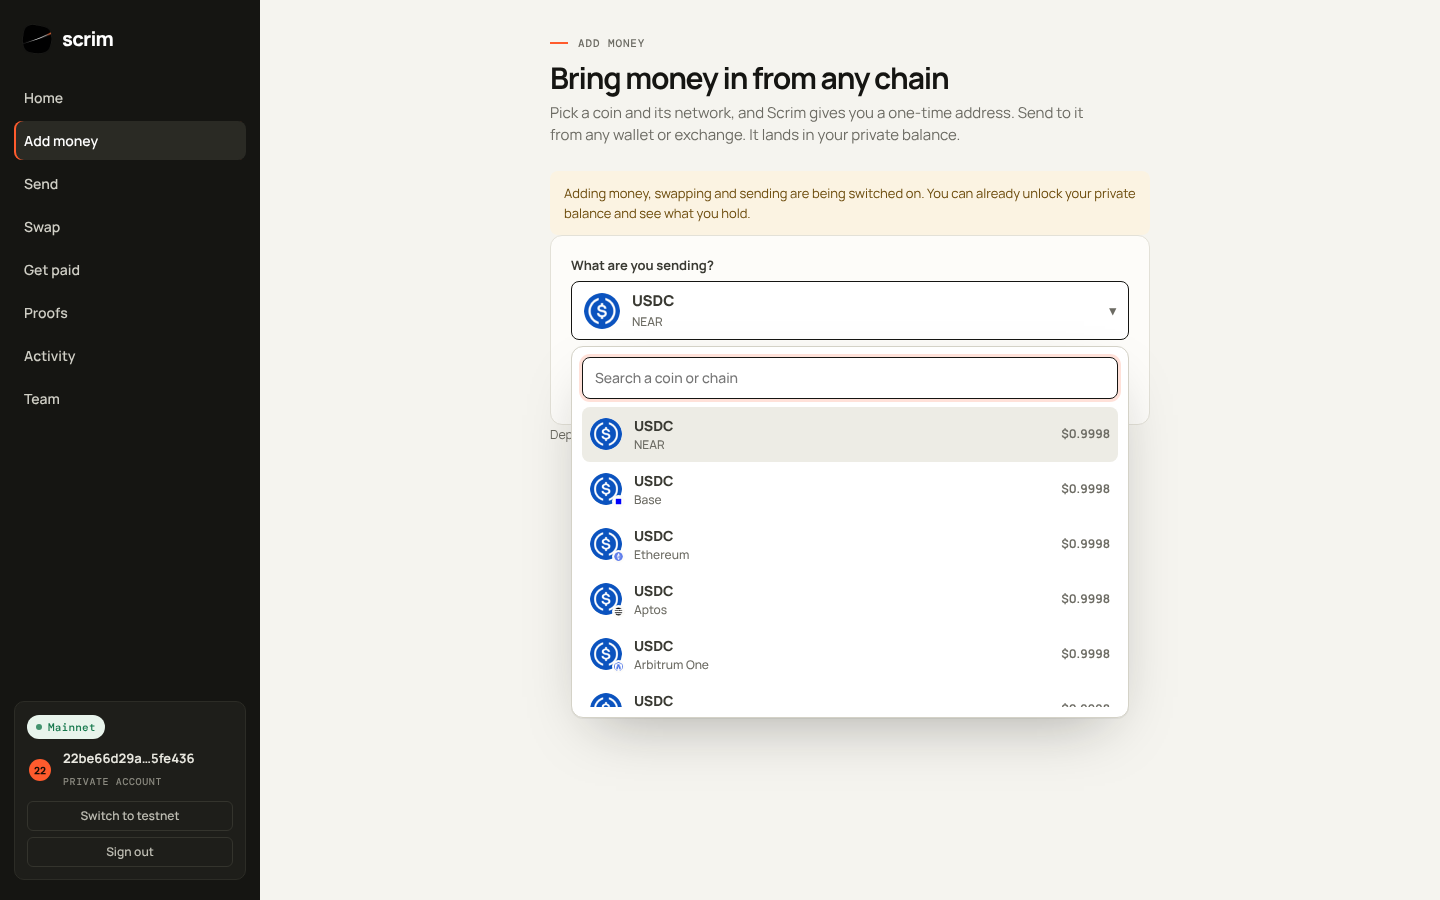
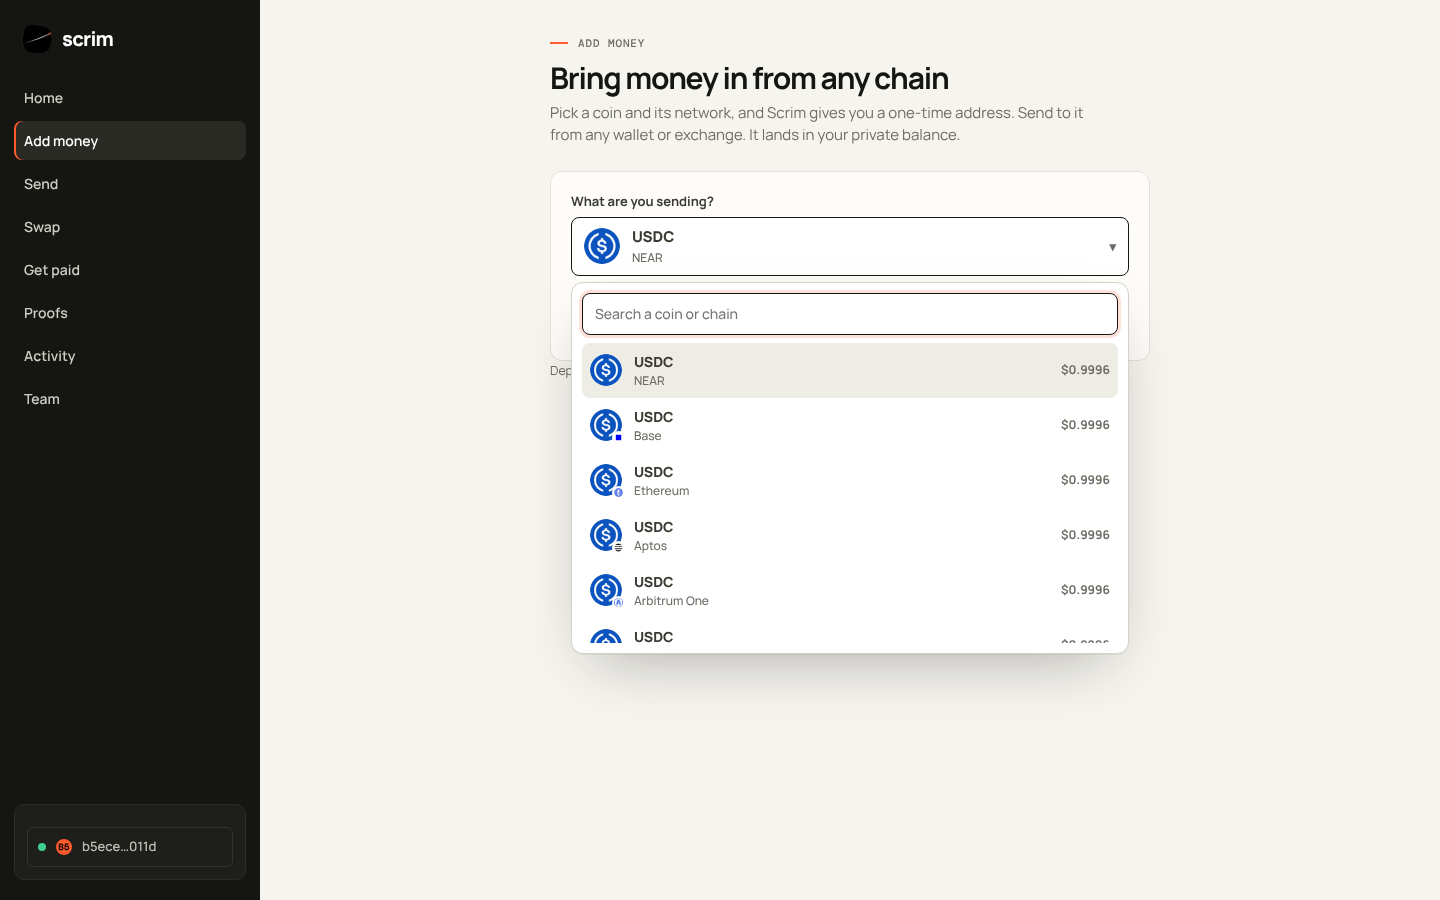
x402 on the landing page and in the agent guide; fresh README screenshots
Landing: an x402 scene and updated agent wording. Team: Paid APIs tab in Connect, allowed
recipients, readable site names. Fixes: testnet home buttons, no private badge on testnet teams,
plain status names, x402 scene class clash. README: new screenshots and feature table.

diff --git a/src/components/TreasuryView.tsx b/src/components/TreasuryView.tsx
@@ -73,7 +73,7 @@ export function TreasuryView({ treasuryId, accountId }: { treasuryId: string; ac
               {treasury.thresholdRequired} of {treasury.signers.length} approvals
             </span>
             <span className="pill plain">{treasury.unit.routeLabel}</span>
-            <span className="pill plain">Pays out privately</span>
+            {treasury.network === "mainnet" && <span className="pill plain">Pays out privately</span>}
             <span className="pill plain">{role === "owner" ? "You own this account" : "You are an approver"}</span>
           </div>
         </div>
@@ -562,7 +562,7 @@ function Agents({ agents, payments, role, unit, onCreate, onEdit, onToggle, onCo
       <div className="card empty">
         <span className="icon">⌁</span>
         <h3>No agents yet</h3>
-        <p>An agent is software that pays on your behalf. It gets its own key and spending limits: who it may pay, how much each time, and how much per day. It can ask to pay. It can never approve.</p>
+        <p>An agent is software that pays on your behalf. It gets its own key and spending limits: who it may pay, how much each time, and how much per day. It can ask to pay, and buy from paid APIs over x402. With a wallet of its own, it can pay by itself within those limits. It can never approve.</p>
         {role === "owner" && (
           <button className="btn btn-primary" onClick={onCreate}>
             Add your first agent
@@ -619,11 +619,11 @@ function Agents({ agents, payments, role, unit, onCreate, onEdit, onToggle, onCo
               </div>
             </div>
             <div>
-              <span className="section-label">Approved counterparties</span>
+              <span className="section-label">Allowed recipients</span>
               <div className="chips">
                 {agent.policy.counterparties.map((c) => (
                   <span key={c.address} className="chip" title={c.address}>
-                    {c.label} <code>{short(c.address, 4, 4)}</code>
+                    {c.label} <code>{c.address.startsWith("https://") ? new URL(c.address).host : short(c.address, 4, 4)}</code>
                   </span>
                 ))}
               </div>
@@ -742,8 +742,8 @@ function AgentDialog({ state, treasuryId, unit, onClose, onSaved }: { state: { m
           </select>
         </label>
         <div className="field">
-          Approved counterparties
-          <small>{unit.recipientLabel.replace(/^a /, "")}es this agent may pay{unit.symbol === "NEAR" ? "" : ", or https:// sellers it may buy from (x402)"}. Anything else is blocked automatically.</small>
+          Allowed recipients
+          <small>{plural(unit.recipientLabel.replace(/^an? /, ""))} this agent may pay{unit.symbol === "NEAR" ? "" : ", or https:// sellers it may buy from (x402)"}. Anything else is blocked automatically.</small>
           {counterparties.map((c, i) => (
             <div key={i} className="counterparty-row">
               <input className="input" value={c.label} onChange={(e) => setCounterparties((list) => list.map((x, j) => (j === i ? { ...x, label: e.target.value } : x)))} placeholder="Label" maxLength={60} />
@@ -818,8 +818,10 @@ function Secret({ value }: { value: string }) {
 }
 
 // How to plug an agent in: as a tool for an AI assistant (MCP), or from any code over HTTPS.
+const plural = (noun: string) => (/(s|x|ch|sh)$/.test(noun) ? `${noun}es` : `${noun}s`);
+
 function ConnectGuide({ apiKey }: { apiKey: string }) {
-  const [how, setHow] = useState<"ai" | "code">("ai");
+  const [how, setHow] = useState<"ai" | "code" | "x402">("ai");
   const origin = typeof window === "undefined" ? "" : window.location.origin;
   const mcp = JSON.stringify({ mcpServers: { scrim: { type: "http", url: `${origin}/api/mcp`, headers: { Authorization: `Bearer ${apiKey}` } } } }, null, 2);
   const curl = `curl -X POST ${origin}/api/v1/agent/payments \\
@@ -827,21 +829,32 @@ function ConnectGuide({ apiKey }: { apiKey: string }) {
   -H "Idempotency-Key: <unique-id>" \\
   -H "Content-Type: application/json" \\
   -d '{"recipient":"<recipient>","amount":"<amount>","memo":"<what it is for>"}'`;
+  const buy = `curl -X POST ${origin}/api/v1/agent/x402 \\
+  -H "Authorization: Bearer ${apiKey}" \\
+  -H "Idempotency-Key: <unique-id>" \\
+  -H "Content-Type: application/json" \\
+  -d '{"url":"https://<paid-api>/<path>"}'`;
   return (
     <div className="connect-guide">
       <div className="seg" role="tablist">
         <button role="tab" aria-selected={how === "ai"} onClick={() => setHow("ai")}>AI assistant</button>
         <button role="tab" aria-selected={how === "code"} onClick={() => setHow("code")}>Your code</button>
+        <button role="tab" aria-selected={how === "x402"} onClick={() => setHow("x402")}>Paid APIs</button>
       </div>
       {how === "ai" ? (
         <>
-          <p className="muted">Add Scrim as a tool (MCP server) in Claude or any assistant that supports MCP. It can check its limits and ask to pay. People still approve.</p>
+          <p className="muted">Add Scrim as a tool (MCP server) in Claude or any assistant that supports MCP. It can check its limits, ask to pay, and buy from paid APIs with the pay_x402 tool.</p>
           <div className="code"><pre>{mcp}</pre></div>
         </>
-      ) : (
+      ) : how === "code" ? (
         <>
           <p className="muted">Ask to pay from any program. Check its limits with GET /api/v1/agent and a request with GET /api/v1/agent/payments/&lt;id&gt;.</p>
           <div className="code"><pre>{curl}</pre></div>
+        </>
+      ) : (
+        <>
+          <p className="muted">Buy from any address that asks for payment over x402 (HTTP 402), such as a paid API. Add the seller&apos;s https:// address to the agent&apos;s allowed recipients first. Scrim checks the price against the limits, pays privately, and keeps what the seller returns: read it with GET /api/v1/agent/payments/&lt;id&gt;.</p>
+          <div className="code"><pre>{buy}</pre></div>
         </>
       )}
     </div>

diff --git a/app/globals.css b/app/globals.css
@@ -438,7 +438,7 @@ button.chip.on { background: var(--ink); color: #fff; border-color: var(--ink); 
 .balance-tabs { display: inline-flex; gap: 4px; padding: 4px; border-radius: 10px; background: rgba(255,255,255,0.08); justify-self: start; position: relative; z-index: 1; }
 .balance-tabs button { padding: 7px 12px; border: 0; border-radius: 7px; background: none; color: #bdbcb2; font-size: 13px; font-weight: 700; cursor: pointer; }
 .balance-tabs button[aria-selected="true"] { background: #fff; color: var(--ink); }
-.balance-hero > div:nth-child(2), .balance-hero > .balance-body { display: grid; gap: 6px; position: relative; z-index: 1; }
+.balance-hero > div:nth-child(2):not(.quick), .balance-hero > .balance-body { display: grid; gap: 6px; position: relative; z-index: 1; }
 .muted-on-dark { color: #a9a89e; font-size: 14px; }
 .balance-figure { font-size: clamp(38px, 6vw, 56px); letter-spacing: -0.045em; line-height: 1.05; }
 .balance-figure.faint { color: #6c6b63; }
@@ -851,3 +851,19 @@ button.chip.on { background: var(--ink); color: #fff; border-color: var(--ink); 
 .details dd { margin: 0; min-width: 0; }
 .segmented button { padding: 10px; border: 1px solid var(--line-2); border-radius: var(--radius-sm); background: #fff; font: inherit; font-weight: 700; cursor: pointer; color: var(--muted); }
 .segmented button[aria-checked="true"] { border-color: var(--ink); box-shadow: inset 0 0 0 1px var(--ink); color: var(--ink); }
+
+/* x402 scene */
+.sc-x402 { gap: 14px; }
+.sc-x402-ends { display: flex; align-items: center; gap: 10px; font: 700 13px var(--sans); }
+.sc-x402-ends i { flex: 1; height: 2px; background: repeating-linear-gradient(90deg, var(--orange) 0 6px, transparent 6px 12px); background-size: 24px 2px; animation: x402dash 1s linear infinite; }
+@keyframes x402dash { to { background-position: 24px 0; } }
+.sc-x402 ol { list-style: none; margin: 0; padding: 0; display: grid; gap: 8px; }
+.sc-x402 li { display: flex; gap: 10px; align-items: center; padding: 10px 12px; border-radius: 10px; background: var(--paper); font-size: 13px; font-weight: 600; color: var(--muted); opacity: .35; transform: translateY(4px); transition: opacity .35s, transform .35s, background .35s, color .35s; }
+.sc-x402 li b { min-width: 46px; font: 500 11px var(--mono); text-transform: uppercase; letter-spacing: .04em; }
+.sc-x402 li.on { opacity: 1; transform: none; color: var(--ink); }
+.sc-x402 li.by-api.on { background: var(--blue-wash); }
+.sc-x402 li.by-scrim.on { background: var(--green-wash); }
+.sc-x402 li.now { box-shadow: inset 0 0 0 1px var(--ink); }
+.sc-x402-foot { font: 500 12px var(--mono); color: var(--muted); text-align: center; opacity: 0; transition: opacity .4s; }
+.sc-x402-foot.on { opacity: 1; }
+@media (prefers-reduced-motion: reduce) { .sc-x402 li { opacity: 1; transform: none; } .sc-x402-foot { opacity: 1; } .sc-x402-ends i { animation: none; } }

diff --git a/app/page.tsx b/app/page.tsx
@@ -1,7 +1,7 @@
 import Link from "next/link";
 import { catalog } from "@/server/assets";
 import { FlowDemo } from "@/components/landing/FlowDemo";
-import { HeroCard, PaidScene, ProofScene, SendScene, SwapScene, TeamScene, AgentScene } from "@/components/landing/Scenes";
+import { HeroCard, PaidScene, ProofScene, SendScene, SwapScene, TeamScene, AgentScene, X402Scene } from "@/components/landing/Scenes";
 import { Reveal } from "@/components/landing/Reveal";
 
 export const revalidate = 300;
@@ -81,7 +81,8 @@ export default async function Home() {
 
         <section className="section l-story" id="agents">
           <div className="wrap">
-            <Row eyebrow="Agents" title="Let software pay. Within your rules." text="Give an agent its own key and spending limits. Anything outside them is stopped. People still approve." flip><AgentScene /></Row>
+            <Row eyebrow="Agents" title="Let software pay. Within your rules." text="Give an agent its own key and spending limits. It asks and people approve, or it pays by itself from a wallet of its own. Anything outside the limits is stopped." flip><AgentScene /></Row>
+            <Row eyebrow="x402" title="Pay for APIs. Get paid by agents." text="Agents buy data and services from any site that asks for payment over x402, and other agents can pay your links the same way. Money moves privately through NEAR Intents."><X402Scene /></Row>
           </div>
         </section>
 
@@ -104,7 +105,7 @@ export default async function Home() {
               <details open><summary>Is it really private?</summary><p>Your money sits on NEAR Intents&apos; private ledger, not the public chain.</p></details>
               <details><summary>Does Scrim hold my money?</summary><p>No. Only your wallet can move it.</p></details>
               <details><summary>Can I try it free?</summary><p>Yes, on testnet. Private money runs on mainnet only.</p></details>
-              <details><summary>Can AI agents use it?</summary><p>Yes. Each agent gets its own key and limits, and your team approves what it asks to pay.</p></details>
+              <details><summary>Can AI agents use it?</summary><p>Yes. Each agent gets its own key and limits. Your team approves what it asks to pay, or you let it pay by itself from its own wallet. Agents can also pay for APIs and pay your links over x402.</p></details>
               <details><summary>What does it cost?</summary><p>Free to open. Network fees are shown before you confirm.</p></details>
             </div>
           </div>

diff --git a/src/components/TestnetHome.tsx b/src/components/TestnetHome.tsx
@@ -1,17 +1,15 @@
 "use client";
 import Link from "next/link";
 import { useApi } from "@/client/use-api";
-import { NETWORK_INFO } from "@/protocol/networks";
 import { Heading, TokenLogo, trimDecimals } from "./money";
 import { useSession, useSwitchNetwork } from "./session";
 
 type Holding = { id: string; symbol: string; name: string; display: string; icon: string | null };
 
 export function TestnetHome() {
-  const { accountId, network, otherNetworks } = useSession();
+  const { accountId, otherNetworks } = useSession();
   const switchNetwork = useSwitchNetwork();
   const { data, loading, error } = useApi<{ holdings: Holding[] }>("/wallet", { every: 20_000 });
-  const explorer = `${NETWORK_INFO[network].explorerUrl}/address/${accountId}`;
   const native = data?.holdings.find((h) => h.id === "near");
 
   return (
@@ -26,7 +24,7 @@ export function TestnetHome() {
         <div className="quick">
           <Link href="/app/send" className="btn btn-signal">Send</Link>
           <Link href="/app/team" className="btn btn-light">Team</Link>
-          <a href={explorer} target="_blank" rel="noreferrer" className="btn btn-light">View on explorer ↗</a>
+          <Link href="/app/activity" className="btn btn-light">Activity</Link>
         </div>
       </section>
       {error && <div className="notice danger">{error}</div>}

diff --git a/src/components/landing/Scenes.tsx b/src/components/landing/Scenes.tsx
@@ -158,3 +158,28 @@ export function AgentScene() {
     </div>
   );
 }
+
+/* x402: an agent calls a paid API, gets "402 Payment Required", Scrim checks its limits, pays privately, and the API answers. */
+export function X402Scene() {
+  const steps = [
+    { from: "agent", text: "Asks a paid API for data" },
+    { from: "api", text: "402 · Payment required" },
+    { from: "scrim", text: "Within the agent's limits" },
+    { from: "scrim", text: "Paid from a private balance" },
+    { from: "api", text: "200 · Here is your data" },
+  ];
+  const { ref, step } = useLoop(steps.length + 2, 1000);
+  return (
+    <div ref={ref} className="sc-card sc-x402">
+      <div className="sc-x402-ends"><span>Agent</span><i aria-hidden="true" /><span>Paid API</span></div>
+      <ol>
+        {steps.map((s, i) => (
+          <li key={s.text} className={`by-${s.from} ${step >= i ? "on" : ""} ${step === i ? "now" : ""}`}>
+            <b>{s.from === "agent" ? "Agent" : s.from === "api" ? "API" : "Scrim"}</b>{s.text}
+          </li>
+        ))}
+      </ol>
+      <div className={`sc-x402-foot ${step >= steps.length - 1 ? "on" : ""}`}>The API never sees whose money paid it.</div>
+    </div>
+  );
+}

diff --git a/src/components/Requests.tsx b/src/components/Requests.tsx
@@ -47,6 +47,7 @@ export function Requests() {
           <p className="muted">Asking for <b>{fresh.display} {fresh.symbol}</b> on {fresh.chainName}{fresh.note ? ` · ${fresh.note}` : ""}</p>
           <CopyField label="Share this link" value={url(fresh.code)} />
           <CopyField label="For AI agents (x402)" value={agentUrl(fresh.code)} />
+          <small className="muted">AI agents and apps that pay over x402 can pay this address directly, in USDC or USDT from Base, Ethereum, Solana and other chains. It lands in your private balance like any other payment.</small>
           <div className="between">
             <button className="btn btn-ghost" onClick={() => setFresh(null)}>Make another</button>
             {typeof navigator !== "undefined" && "share" in navigator && <button className="btn btn-primary" onClick={() => navigator.share({ title: "Payment request", url: url(fresh.code) }).catch(() => {})}>Share</button>}

diff --git a/src/client/format.ts b/src/client/format.ts
@@ -14,12 +14,12 @@ export function relativeTime(input: string | Date) {
 }
 
 export const STATUS_LABEL: Record<string, string> = {
-  policy_rejected: "Blocked by policy",
-  awaiting_approval: "Awaiting approval",
+  policy_rejected: "Stopped by limits",
+  awaiting_approval: "Waiting for approval",
   approved: "Approved",
-  quoted: "Quote ready",
-  submitting: "Submitting",
-  settled: "Settled",
+  quoted: "Price ready",
+  submitting: "Sending",
+  settled: "Paid",
   failed: "Failed",
   expired: "Expired",
   cancelled: "Cancelled",

diff --git a/README.md b/README.md
@@ -103,13 +103,22 @@ Choose a network when you sign in. Everything shown is real data from the networ
 | Money | Free test coins, worth nothing | Real money |
 | Sign-in and team approvals | ✅ | ✅ |
 | Spending limits and agents | ✅ | ✅ |
+| Agents that pay by themselves (own wallet) | ✅ NEAR | ✅ USDC |
 | Real NEAR transfers, checked on-chain | ✅ | ✅ |
+| Activity, read from the chain | ✅ | ✅ |
 | Private balance, add money, send, swap | — | ✅ |
 | Payment links and proofs | — | ✅ |
+| x402: buy from paid APIs, get paid by agents | — | ✅ |
+| Private agent wallets | — | ✅ |
 
 The private features need NEAR Intents, which only exists on mainnet. On testnet those screens say so plainly. The recommended path is to try Scrim on testnet first, then move to mainnet with a separate account and small amounts.
 
-<p align="center"><img src="docs/images/testnet.png" alt="Testnet wallet" width="620"></p>
+<p align="center">
+  <img src="docs/images/team.png" alt="A team account: one agent request waiting for approval, one paid, one stopped by its limits" width="880">
+</p>
+<p align="center">
+  <img src="docs/images/activity.png" alt="Activity: the wallet's own transactions in plain words, with details for one transfer" width="880">
+</p>
 
 ## How it works
 
@@ -119,6 +128,9 @@ flowchart LR
   S -- private session --> I[NEAR Intents private ledger]
   I <--> B[Bridge: 30+ networks]
   S --- D[(Postgres)]
+  A[Agent] -- key with limits --> S
+  S -- pays within limits --> O[OutLayer agent wallet]
+  O --> I
 ```
 
 **Sign in.** You approve one message in any NEAR wallet. On mainnet it is the NEAR Intents ownership message, a signed empty intent that cannot move funds. That single signature both signs you in and opens your private session. Scrim checks on-chain that the key really belongs to your account.
@@ -131,7 +143,7 @@ flowchart LR
 
 ### Where the data comes from
 
-Coins, prices, logos and networks come live from NEAR Intents and CoinGecko. Testnet balances come from the NEAR RPC and FastNEAR. Nothing is hardcoded.
+Coins, prices, logos and networks come live from NEAR Intents and CoinGecko. Testnet balances come from the NEAR RPC and FastNEAR, and Activity reads each wallet's transactions from FastNEAR's transaction index. Nothing is hardcoded.
 
 ## Run it yourself
 
@@ -214,9 +226,13 @@ Tools: `get_limits`, `request_payment`, `pay_x402`, `list_payments`, `get_paymen
 
 **Updates (webhooks).** Set an `https://` address under **Connect** and Scrim calls it when a request is created, stopped, approved, being paid, paid, failed or cancelled. Each call carries `Scrim-Signature: t=<unix seconds>,v1=<hex>`, where `v1` is the HMAC-SHA256 of `"<t>.<raw body>"` with the signing secret (`whsec_…`, shown once). Reject calls with a wrong signature or a timestamp older than five minutes. Only public addresses are allowed.
 
+<p align="center"><img src="docs/images/connect.png" alt="Connect an agent: its key, updates, its own wallet, and how to plug it in, including paid APIs" width="720"></p>
+
+<p align="center"><img src="docs/images/x402.png" alt="x402: an agent asks a paid API, gets 402, Scrim checks the limits and pays privately, the API answers" width="720"></p>
+
 **Get paid by agents (x402).** Every payment link also has an agent address, `/api/x402/pay/<code>`, that speaks [x402](https://x402.org) with the `exact` scheme and the `near-intents` upfront method (as proposed in x402-foundation/x402#3370). An agent gets a `402 Payment Required` listing USDC and USDT on Ethereum, Base, Arbitrum, Optimism, Polygon, BNB Chain, Avalanche and Solana, asks for a quote, pays the one-time deposit address, and presents the transaction. NEAR Intents delivers the money into the link owner's private balance, so the payer never sees where it went. Scrim acts as the facilitator: operation tokens are HMAC-bound to the deposit, the resource and the destination, each operation settles once, and refunds go straight back to the payer.
 
-**Buy from x402 sellers (agents).** An agent can also *pay* an x402 address, such as a paid API: `POST /api/v1/agent/x402` with `{ "url": "https://…" }`, or the MCP tool `pay_x402`. Scrim reads the seller's `402`, picks a NEAR Intents route (USDC on Base preferred), prices it in USD, and files a team payment request named after the seller's web address. The agent's limits apply (the seller's `https://` address must be one of its allowed recipients) and people approve as usual. When the owner pays, Scrim gets a fresh quote from the seller, never above what was approved, and pays the quoted deposit address with a private withdrawal the owner's wallet signs. Refunds go to the owner's own deposit address, so they return to the private balance. Once NEAR Intents delivers, Scrim presents the payment to the seller and keeps the response for the agent (`GET /api/v1/agent/payments/:id` or `get_payment`). The seller never sees the team's wallet.
+**Buy from x402 sellers (agents).** An agent can also *pay* an x402 address, such as a paid API: `POST /api/v1/agent/x402` with `{ "url": "https://…" }`, or the MCP tool `pay_x402`. Scrim reads the seller's `402`, picks a NEAR Intents route (USDC on Base preferred), prices it in USD, and files a team payment request named after the seller's web address. The agent's limits apply (the seller's `https://` address must be one of its allowed recipients) and people approve as usual; an agent with its own wallet pays the seller by itself instead, from its private balance by default. When the owner pays, Scrim gets a fresh quote from the seller, never above what was approved, and pays the quoted deposit address with a private withdrawal the owner's wallet signs. Refunds go to the owner's own deposit address, so they return to the private balance. Once NEAR Intents delivers, Scrim presents the payment to the seller and keeps the response for the agent (`GET /api/v1/agent/payments/:id` or `get_payment`). The seller never sees the team's wallet.
 
 **Agents that pay by themselves.** The owner can give an agent its own wallet: **Connect → Create wallet**. The wallet is an [OutLayer](https://outlayer.ai) agent wallet: its key is created and kept inside a secure enclave (Intel TDX) and never reaches Scrim, which stores only the wallet's access key, sealed. The owner funds it and sets its spending rules on OutLayer with their own NEAR wallet, so the wallet enforces a second, independent set of limits. With **Let it pay by itself** on, a request that passes the agent's Scrim limits is paid at once from the agent's wallet; anything outside them is stopped as before. On testnet it sends NEAR and Scrim checks the transfer on-chain. On mainnet it sends USDC, x402 purchases included, and the owner chooses per agent:
 
@@ -238,6 +254,7 @@ Tools: `get_limits`, `request_payment`, `pay_x402`, `list_payments`, `get_paymen
 - **Webhooks** are signed, public-address-only (checked again at send time), and never follow redirects.
 - **Rate limits** apply per client on every route, with stricter limits on sign-in, payment links and agent keys.
 - **Responses are never cached**, and browser-originated changes must come from the same origin.
+- **Agent wallet keys never reach Scrim.** They are created and kept in OutLayer's secure enclave (Intel TDX); Scrim keeps only a sealed access key, and the owner's on-chain spending rules apply on top of Scrim's limits.
 - **Your keys stay in your wallet.** Scrim never sees them, and the private ledger is run by NEAR Intents.
 
 ## Project layout

diff --git a/AGENTS.md b/AGENTS.md
@@ -45,3 +45,13 @@ Each delivery has `Scrim-Signature: t=<unix seconds>,v1=<hex>` where `v1 = HMAC-
 
 ## Alerts for people
 Approvers tap **Connect Telegram** on the Team screen to get a message whenever a payment needs them. The site owner sets `TELEGRAM_BOT_TOKEN` and `TELEGRAM_BOT_USERNAME`.
+
+<!-- BEGIN:nextjs-agent-rules -->
+
+## This is NOT the Next.js you know
+
+This version has breaking changes — APIs, conventions, and file structure may all differ from your training data. Read the relevant guide in `node_modules/next/dist/docs/` (resolved from this file's directory; in monorepos the `next` package may not be visible from the repo root) before writing any code. Heed deprecation notices.
+
+This block is written and re-added by `next dev` — verify at `node_modules/next/dist/server/lib/generate-agent-files.js`. Removing it from a diff only re-creates the uncommitted change; committing it with your work keeps the tree clean.
+
+<!-- END:nextjs-agent-rules -->
